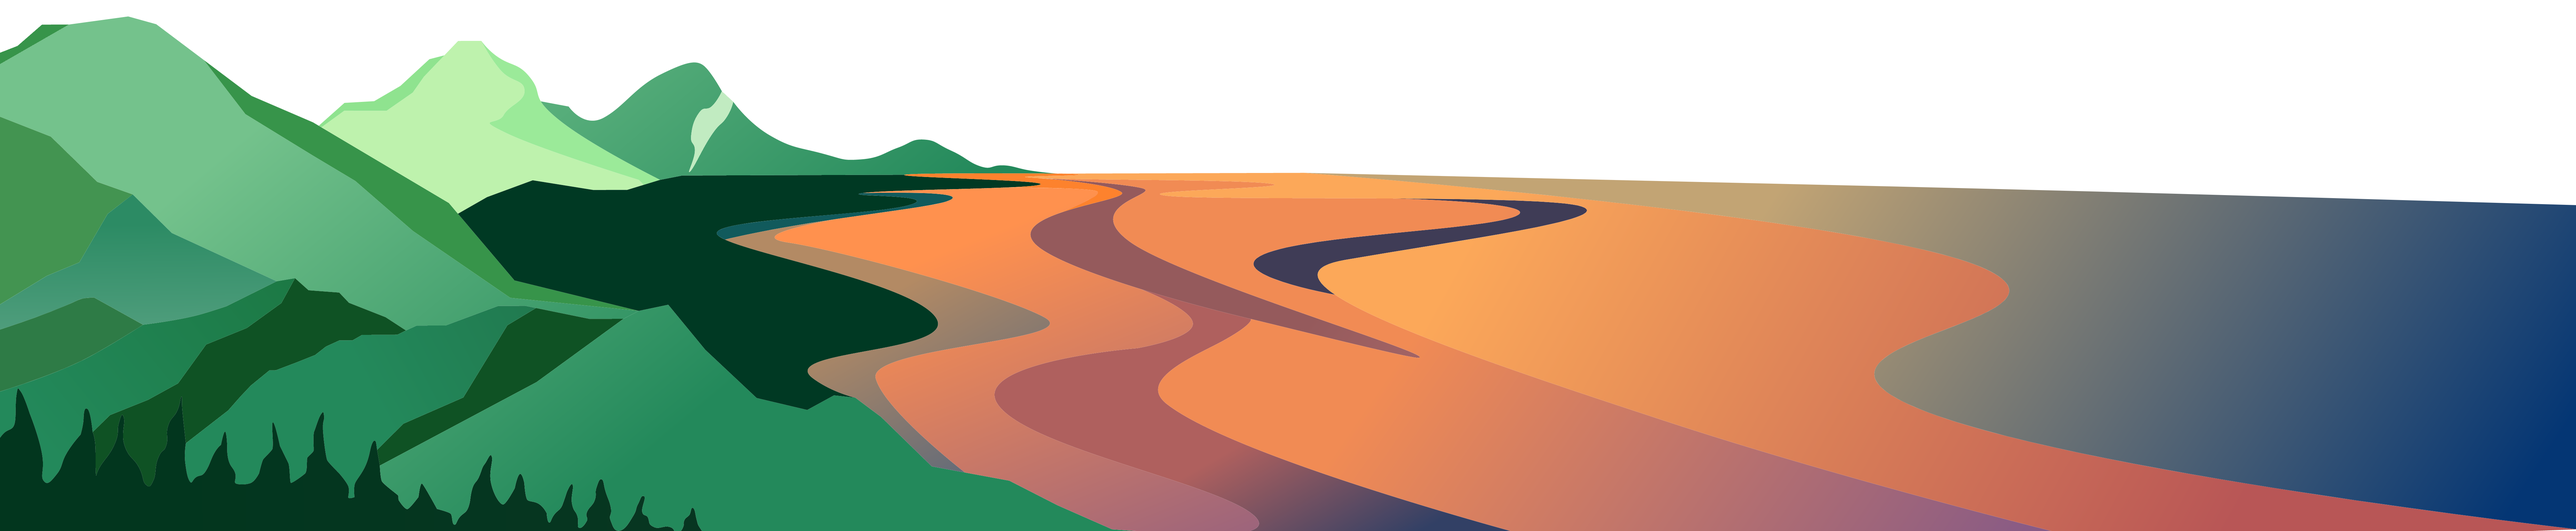
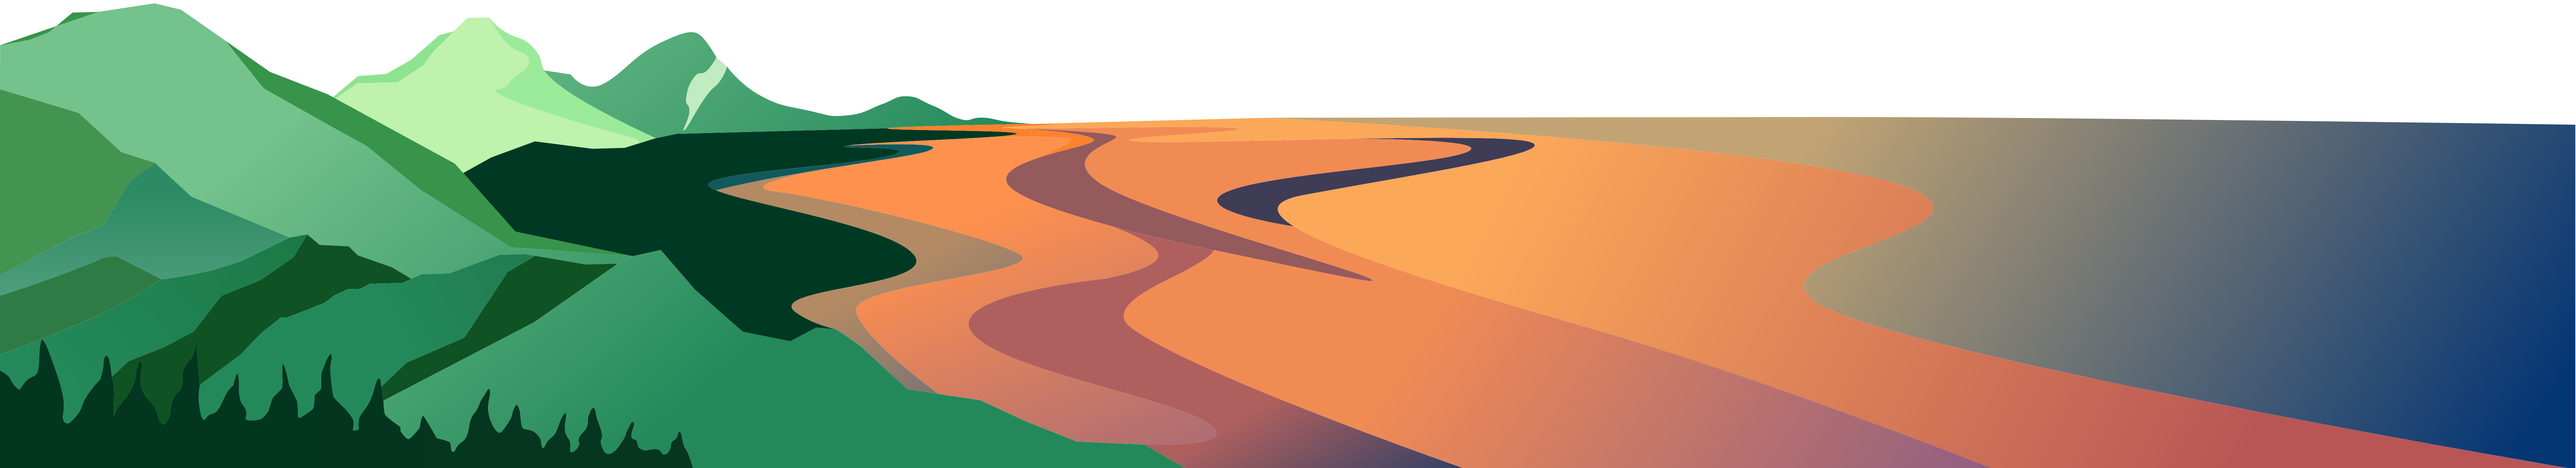
Experience photo group

diff --git a/css/experience.css b/css/experience.css
@@ -1,12 +1,63 @@
-.scene-container {
-    width: 100vw;
-    height: 35vh;
-    align-self: flex-end;
+.photo-group {
+    position: relative;
+    display: flex;
+    justify-content: space-between;
+    width: 80%;
+    height: 56%;
+    margin-bottom: 8%;
 }
 
-.scene-container img {
+.experience-left {
+    flex: 1;
+    margin: 0 9px;
+    width: 26%;
+    height: 100%;
+}
+
+.experience-mid {
+    flex: 1;
+    margin: 0 9px;
+    background-color: rgba(255, 232, 182, 0.6);
+    backdrop-filter: blur(5px);
+    width: 26%;
+    height: 100%;
+}
+
+.experience-right {
+    flex: 1;
+    margin: 0 9px;
+    background-color: rgba(201, 226, 255, 0.6);
+    backdrop-filter: blur(5px);
+    width: 26%;
+    height: 100%;
+}
+
+.left-up {
+    display: flex;
+    justify-content: space-between;
+    align-items: center;
+    height: 49%;
+}
+
+.green-box-up {
+    width: 48%;
+    height: 100%;
+    background-color: rgba(231, 255, 216, 0.6);
+    backdrop-filter: blur(5px);
+    border-radius: 15px;
+    display: flex;
+    justify-content: center;
+    align-items: center;
+}
+
+.left-down {
+    display: flex;
+    justify-content: center;
+    align-items: center;
     width: 100%;
-    /* 图片最大宽度 */
-    height: auto;
-    /* 自适应高度 */
+    height: 49%;
+    margin-top: 3%;
+    background-color: rgba(231, 255, 216, 0.6);
+    backdrop-filter: blur(5px);
+    border-radius: 15px;
 }

diff --git a/script/basic.js b/script/basic.js
@@ -57,6 +57,13 @@ function scrollToPage(pageIndex) {
       link.classList.remove('active');
     }
   });
+
+  // 设置背景图类
+  if (pageIndex === 2) {
+    document.querySelector('#experience').classList.add('background-scene');
+  } else {
+    document.querySelector('#experience').classList.remove('background-scene');
+  }
 }
 
 // 移动圆形
@@ -66,11 +73,11 @@ function moveCircle(pageIndex) {
       if (pageIndex === 0) {
         circle.classList.remove('moveleft');
         circle.classList.remove('movedown');
-      } else if(pageIndex === 2) {
+      } else if (pageIndex === 2) {
         circle.classList.remove('moveleft');
         circle.classList.add('movedown');
       }
-      else{
+      else {
         circle.classList.remove('movedown');
         circle.classList.add('moveleft');
       }

diff --git a/index.html b/index.html
@@ -121,8 +121,16 @@
         </div>
 
         <div class="page" id="experience">
-            <div class="scene-container">
-                <img src="./public/img/SCENE.png" alt="Painting">
+            <div class="photo-group">
+                <div class="experience-left">
+                    <div class="left-up">
+                        <div class="green-box-up">IMG</div>
+                        <div class="green-box-up">IMG</div>
+                    </div>
+                    <div class="left-down">IMG</div>
+                </div>
+                <div class="experience-mid">22</div>
+                <div class="experience-right">1</div>
             </div>
         </div>
 

diff --git a/css/basic.css b/css/basic.css
@@ -96,7 +96,6 @@ body {
 }
 
 /* 页头样式 */
-
 .header {
     position: fixed;
     width: 100vw;
@@ -168,4 +167,14 @@ body {
     align-items: center;
     overflow: hidden;
     color: #fff;
+}
+
+.page.background-scene {
+    background-image: url('../public/img/SCENE.png');
+    background-size: 100% auto;
+    /* 宽度 100%，高度自动调整 */
+    background-position: bottom;
+    /* 背景从底部开始 */
+    background-repeat: no-repeat;
+    /* 不重复背景图 */
 }
